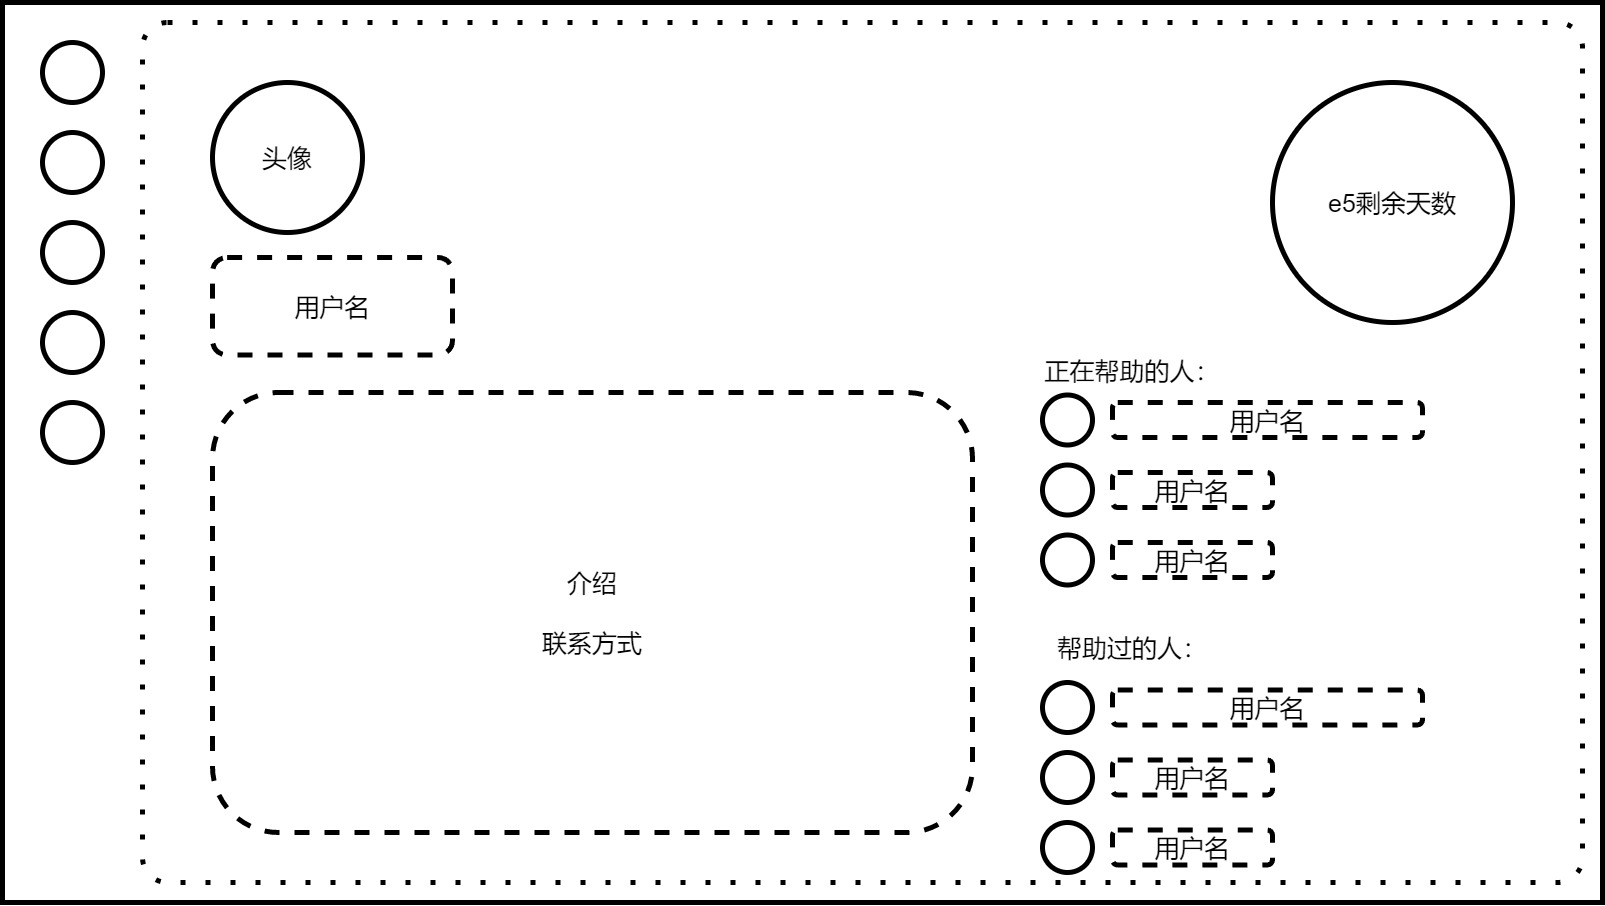
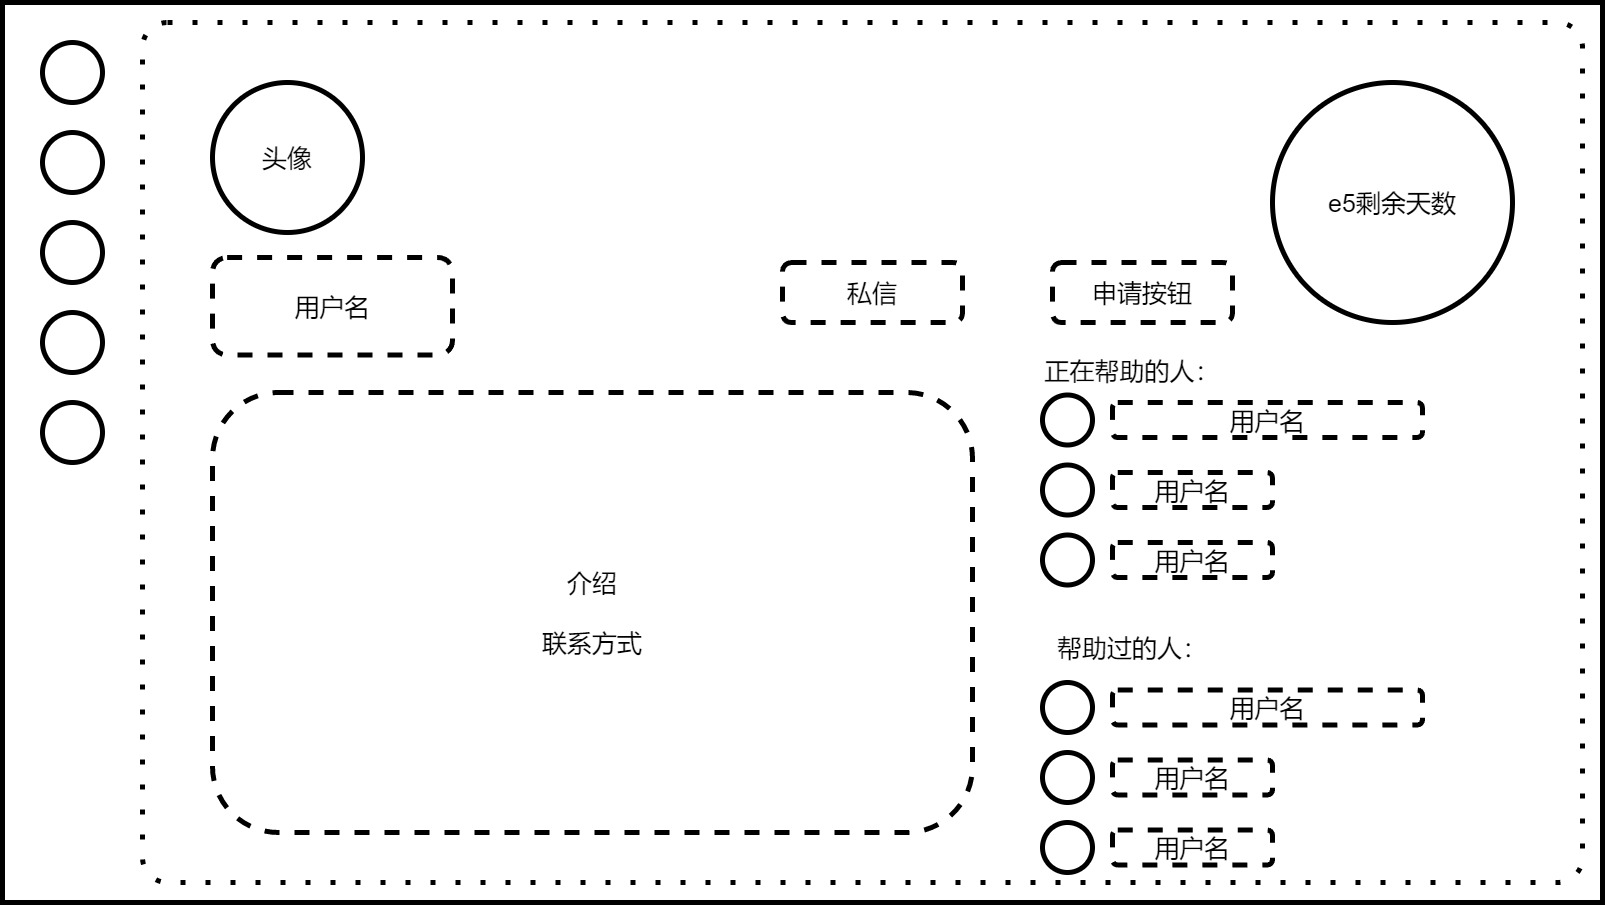
240217 整理并描述了每个页面的功能

diff --git a/规划文档.md b/规划文档.md
@@ -3,24 +3,47 @@
 
 微软E5开发者账号：每个人都可以申请，可以获得1个主账号和25个子账号，有90天有效期。微软将判断账号是否被用于开发，根据情况自动续订。但随着e5账号的申请人数越来越多，续订变得越来越不稳定，所以制作此网站，以希望在自己e5账号续订失败时可以申请使用别人的子账号
 
-网站现目标支持100个用户使用
+网站现目标支持100个用户使用，暂时只建议在pc端使用
+
+计划使用node开发后端，使用vue3开发前端，数据库使用sqlite
+
+计划部署在一个1核1G，10G硬盘、月流量500G的服务器上。希望使用硬盘不超过1G、内存不超过200M
 
 
 # 二、界面与功能
 ## 用户界面
+**界面**
 1. 登录注册页
 2. 主页面布局
-3. 首页：列出正在分享的账号
+    - 导航栏
+    - 通知抽屉
+    - “动态”、“通知”、“私信”红点提醒
+3. 首页
+    列出正在分享的账号
 4. 用户列表
+    显示全部用户，搜索用户
 5. 用户主页
-6. 动态页：类似群聊，显示正在帮助自己的用户所发的消息
+    展示用户信息。申请按钮
+6. 动态页：
+    类似群聊，显示正在帮助自己的用户所发的消息
 7. e5账号分享管理页
+    可以管理自己向外分享的e5子账号，也可以看到自己都被哪些人帮助
 8. 私信页
+    私信功能
 9. 账号设置页
+
+**主要功能**
+1. 登陆注册
+2. e5子账号分享与申请功能
+3. 通知功能
+4. 动态功能
+5. 私信功能
+6. 账号设置
 
 ### 登录注册页
 [登录注册页.drawio](页面设计/登录注册页.drawio)
 ![](页面设计/登录注册页.jpg)
+页面左半侧为装饰性的图片，有半侧中存放表单
 - 登录：填写用户名（或邮箱）与密码
 - 注册：填写邮箱、用户名、密码、确认密码
 - 点击表单左下进行登陆注册切换
@@ -31,45 +54,164 @@
 ### 主页面布局
 [主页面布局.drawio](页面设计/主页面布局.drawio)
 ![](页面设计/主页面布局.jpg)
+主页面布局是主页面的路由框架，其中有首页、列表页等页面的路由出口
 
+最左侧是固定在页面中的导航栏，设计为圆形的按钮应该比较好看，五个大按钮为：
+- 首页
+- 用户列表
+- 动态
+- e5账号分享管理也
+- 用户头像（点击展开小按钮）
+
+点击用户头像可以在下方展开四个小按钮：
+- 我的主页
+- 通知（点击在右侧弹出抽屉）
+- 私信
+- 账号设置
+
+主页面布局还包含一个可弹出的抽屉，用于显示通知，点击上述小按钮“通知”即可弹出
+
+其中“动态”、“通知”、“私信”在有新内容时会亮小红点。“通知”、“私信”小按钮在未展开时，则用户头像亮小红点
 
 ### 首页
 [首页.drawio](页面设计/首页.drawio)
 ![](页面设计/首页.jpg)
-首页列出正在分享的账号，点击可进入用户主页  
-可以在主页置顶正在帮助自己的卡片（类似下面用户列表）  
+首页通过主页面的路由出口来显示，所以最终是包含导航栏的。
+
+首页列出正在分享的账号，点击可进入用户主页。每个正在分享的账号以一个卡片来显示在首页上，首页中一行显示三个卡片。
+- 卡片内容为
+    - 头像
+    - 用户名
+    - 介绍
+    - e5剩余天数
+    - 正在帮助的人的列表
+- 因为卡片中“正在帮助的人的列表”长度不固定，所以每个卡片的长度不一样。在首页中排列时希望以“交错式瀑布流”来排列
+
+如果自己正在分享e5账号帮助别人、或正在被别人帮助，可以在主页置顶正在帮助自己的卡片，卡片的宽度也变为占满一整行，内容也增加上联系方式（就是下面用户列表中封装的卡片）  
 
 
 ### 用户列表
 [用户列表.drawio](页面设计/用户列表.drawio)
 ![](页面设计/用户列表.jpg)
-可以将每一项封装为卡片，并可选择加上标题“您正在被xxx帮助”  
+用户列表页也通过主页面的路由出口来显示，包含导航栏。（之后的所有界面都是这样，不再赘述）
+
+在最顶部有一个固定的搜索栏，然后下面就是用户列表  
+用户列表页显示所有用户，用户的信息将显示在每一张卡片上，每行一个，卡片内容为：
+- 头像
+- 用户名
+- 介绍
+- 联系方式
+- 正在帮助的人
+- e5剩余天数
+
+可以将每一项封装为卡片，并可根据当前登录的用户信息判断是否与其有关联，比如在头部加上“您正在被xxx帮助”或“您正在帮助xxx”
 
 
 ### 用户主页
 [用户主页.drawio](页面设计/用户主页.drawio)
 ![](页面设计/用户主页.jpg)
+显示用户的所有信息，布局为左右两个区域：  
+左侧显示：
+- 头像
+- 用户名
+- 私信按钮
+- 介绍
+- 联系方式  
+右侧显示：
+- 申请按钮
+- e5剩余天数
+- 正在帮助的人
+- 帮助过的人
 
+申请按钮，可以向其申请获取e5子账号。详见 [e5子账号分享与申请功能](#e5子账号分享与申请功能)
+如果其已帮助自己，则显示“取消使用”按钮，并在页面顶部显示“您正在使用TA的e5子账号”
 
 ### 动态页
 [动态页.drawio](页面设计/动态页.drawio)
 ![](页面设计/动态页.jpg)
-类似群聊，显示正在帮助自己的用户所发的消息，自己也可以发消息，所有正在被当前用户帮助的用户都能看到消息
-可以在切换时，从顶部弹出对应的用户卡片（几秒后消失），从而更明显的提示当前用户
+类似群聊，显示正在帮助自己的e5帐号主所发的消息，自己也可以发消息，所有正在被当前用户帮助的用户都能看到消息
+
+顶部有标签栏可以切换选择帮助自己的e5账号主，可以在切换时，从顶部弹出对应的用户卡片（几秒后消失），从而更明显的提示当前用户
+
+底部为文本域，用于发送消息
+
+如果自己还没有被帮助，则弹窗提示拦截到首页
 
 
 ### e5账号分享管理页
 [e5账号分享管理页.drawio](页面设计/e5账号分享管理页.drawio)
 ![](页面设计/e5账号分享管理页.jpg)
+e5账号分享管理页，可以管理自己向外分享的e5子账号，也可以看到自己都被哪些人帮助。  
+
+自己分享的账号信息显示在一个大卡片上，占据页面中上方的大部分空间，包含内容为：“说明/停止分享”按钮、头像、用户名、“跳转到设置”按钮、介绍、联系方式、e5剩余天数、正在分享的用户列表。  
+**“说明/停止分享”按钮**  
+右上角有一个按钮“说明/停止分享”，点击可以弹出一个抽屉，其中有停止分享的确认信息，还有关于分享e5账号的教程
+**正在分享的用户列表**
+此表格用来管理正在使用自己分享的e5子账号的用户，右下有“添加”与“保存”按钮。  
+表格中表项为：头像用户名、备注、状态、操作  
+状态共有4种：非站内、未发送、待确认、已确认  
+点击每一行中的操作按钮，可以弹出对话框编辑对应行的信息，并可以进行“发送确认通知”、删除、保存等操作  
+
+当自己没有向外分享时，大卡片会化为一个长条，只留下右侧的一个按钮“说明/登记分享”，点击会弹出抽屉，显示表单填写，并也显示分享e5账号的教程
+
+紧接着大卡片之后，又显示帮助自己的用户的卡片（就是用户列表中封装的卡片）
+
+详见 [e5子账号分享与申请功能](#e5子账号分享与申请功能)
 
 
 ### 私信页
 [私信页.drawio](页面设计/私信页.drawio)
 ![](页面设计/私信页.jpg)
+私信页左边为选择用户栏，右侧为聊天框。  类似推特的私信
+可以通过搜索来选择用户，也可以在用户主页点击私信按钮跳转到此页面来发起私信  
+有过私信记录的用户都会显示在左侧选择用户栏
+
 
 ### 账号设置页
 [账号设置页.drawio](页面设计/账号设置页.drawio)
 ![](页面设计/账号设置页.jpg)
+左侧为选择设置选项栏，右侧为设置内容页 在其中填写表单
+设置选项为：
+- 修改昵称
+- 修改密码
+- 修改头像
+- 修改介绍
+- 修改联系方式
+- 修改e5订阅剩余天数
+- ……
+
+
+### e5子账号分享与申请功能
+#### 登记
+在e5账号分享管理页点击“说明/登记分享”按钮，在弹出的抽屉中填写表单并提交
+表单内容为：e5订阅的总天数、剩余天数
+
+#### 申请
+想要取得e5子账号的用户，在登记分享了e5的 [用户主页](#用户主页) 点击申请按钮，可以向其申请获取e5子账号。用户点击申请后，弹出一个抽屉来确认，并且显示说明信息。  
+
+当用户申请后，在抽屉中隐藏申请确认按钮（三天后可再次申请），并添加说明：
+	您已向xxx提交了申请，建议在当前e5帐号主常用的社交媒体平台与其建立联系  
+	复制以下链接并发送给e5帐号主可以帮助其快速定位到您的申请
+	xxxxxx  
+
+分享e5的用户（页面中的用户）将会收到“e5分享申请通知”，如：
+	xxx向您申请e5子账号
+
+#### 添加与确认
+在别的用户向自己申请了之后，自己会收到通知，点击通知中的链接即可快速将其添加到正在分享的用户列表（e5账号分享管理页）。也可以在e5账号分享管理页中手动添加。  
+添加后，列表中刚添加的用户状态为“未发送”，如果是手动添加的但没有找到对应的用户名则为“非站内”。  
+此时只是自己单向添加了对方，点击行内右侧的操作按钮，在弹出的对话框中点击发送确认通知，状态就会改为“待确认”，对方会收到确认通知，确认后即为分享成功。
+
+注意：一般申请的用户会通过介绍方式里的常用平台联系，此时就可以沟通分享账号事宜
+
+#### 取消分享（单个用户）
+分享方和被分享方都可以取消此次分享
+分享方：e5账号分享管理页中，在正在分享的用户列表找到对应用户，点击操作按钮并在弹出的对话框中点击删除即可
+被分享方：e5账号分享管理页中，找到“您正在被xxx分享”，点击进入个人主页并点击取消分享即可
+
+#### 停止分享（停止所有分享）
+分享方在登记分享后，如果不想再和任何人分享（并会取消当前的所有分享），则可以在e5账号分享管理页中点击“说明/停止分享”按钮，在弹出的抽屉中确认取消分享。
+
 
 ## 系统管理界面
 
@@ -95,11 +237,11 @@
 
 通知类型分为：
 - 系统通知
-- 分享申请通知
+- e5分享申请通知
     xxx向您申请e5子账号
-- 分享确认通知
+- e5分享确认通知
     您已获得xxx的e5子账号吗，请确认
-- 分享完成通知
+- e5分享完成通知
     您已成功帮助xxx
 - 其他通知
 

diff --git a/assets/提问记录.md b/assets/提问记录.md
@@ -1,0 +1,45 @@
+
+### 问：
+一、问题
+如何进行网站开发的规划
+开发流程是什么？比如：先做规划文档、写接口文档、开发后端、开发前端？对吗，更专业的人是怎么做的
+规划文档又要怎样写呢？
+
+二、背景
+2.1 要做的网站
+我打算做一个微软E5开发者账号分享网站，用于分享自己的E5子账号给其他用户，其他用户也可以向别人申请获取e5子账号
+网站将记录分享信息并在首页显示，还有“动态”页面可以使分享者与被分享者交流
+> 微软E5开发者账号：每个人都可以申请，可以获得1个主账号和25个子账号，但有90天有效期，可能自动续订但不稳定。本网站就打算解决这个问题，让用户都有e5账号用
+
+2.2 我会的知识
+node.js后端基础
+vue3前端基础
+
+
+### 答：
+一、问题的回答
+1. **网站开发规划**：首先，你需要明确你的目标，了解你的用户群体，以及他们的需求。然后，你可以开始规划你的网站的结构和设计。这包括确定网站的主要功能，设计网站的布局和导航，以及选择合适的技术和工具。
+
+2. **开发流程**：一般来说，网站开发的流程包括以下几个步骤：
+    - **需求分析**：明确网站的目标，了解用户需求，确定网站的主要功能。
+    - **规划文档**：根据需求分析，制定详细的开发计划，包括网站的结构、设计、技术选型等。
+    - **设计**：设计网站的界面和用户体验。
+    - **编写接口文档**：定义前后端交互的接口，包括接口的URL、请求方法、请求参数、返回结果等。
+    - **开发后端**：根据接口文档，使用后端技术（如Node.js）开发后端服务。
+    - **开发前端**：根据设计和接口文档，使用前端技术（如Vue.js）开发前端页面。
+    - **测试**：对网站进行功能测试和性能测试，确保网站的稳定性和可用性。
+    - **部署**：将网站部署到服务器，进行线上测试，然后正式上线。
+
+3. **规划文档**：规划文档是对网站开发的详细规划，包括以下内容：
+    - **项目概述**：包括项目的背景、目标、预期结果等。
+    - **用户需求**：描述用户的需求和期望，以及如何满足这些需求。
+    - **功能需求**：详细描述网站的各项功能，包括用户界面、数据处理、系统功能等。
+    - **设计需求**：描述网站的设计要求，包括界面设计、用户体验设计等。
+    - **技术需求**：描述网站的技术要求，包括技术选型、开发工具、开发环境等。
+    - **项目计划**：包括项目的开发计划、测试计划、部署计划等。
+    - **风险评估**：评估项目的可能风险，以及应对策略。
+
+二、背景的建议 你打算做的微软E5开发者账号分享网站的想法很好，这将帮助用户解决E5账号的获取问题。你可以根据上述的开发流程和规划文档的内容，制定你的开发计划。由于你已经掌握了Node.js和Vue.js的基础知识，所以你可以使用这两种技术进行开发。祝你的项目成功！
+
+
+### 问：

diff --git a/README.md b/README.md
@@ -1,5 +1,6 @@
 e5分享网站开发记录
 
+[提问记录](assets/提问记录.md)
 
 ### 240215
 **决定了开发流程**
@@ -24,3 +25,7 @@ e5分享网站开发记录
 ### 240216
 
 可以使用`uuid`库生成UUID，用于：动态消息id、私信消息id、通知id
+
+
+### 240217
+整理并描述了每个页面的功能
